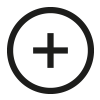
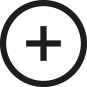
Added bottom menu for each job.

diff --git a/maisa-bolt/theme/maisa-template/job_style.css b/maisa-bolt/theme/maisa-template/job_style.css
@@ -1,5 +1,6 @@
 .simplewall{
-    margin: 10% auto;
+    margin: 150px auto;
+    margin-bottom: 60px;
     width: 85%;
     padding: 0px;
 }
@@ -15,7 +16,7 @@
 }
 
 .job-description{
-    width: 40%;
+    width: 32%;
     margin-left: 1%;
     height: auto;
     display: inline-block;
@@ -25,7 +26,7 @@
 }
 
 .job-line{
-    width: 56%;
+    width: 66%;
     display: inline-block;
     border-style: none solid none none;
     /*border-width: 6px;
@@ -37,4 +38,54 @@
 
 .job-title{
     margin-bottom: 2%;
+}
+
+.job-bottom-menu{
+    width: 85%;
+    padding: 0px;
+    z-index: 10;
+    margin-left: auto;
+    margin-right: auto;
+    padding-top: 30px;
+    
+    text-align:center;
+    
+    border-style: solid none none none;
+    border-width: 7px;
+    border-color: #00ffd8;
+    margin-top: -7px;
+}
+
+.jbmenu-item{
+    width: 25px;
+    height: 46px;
+    background-position: center;
+    background-size: cover;
+    display: inline-block;
+    margin: 0px;
+    
+    cursor: pointer;
+}
+
+.jbmenu-center{
+    width: 46px;
+    height: 46px;
+    background-position: center;
+    background-size: cover;
+    display: inline-block;
+    margin: 0px;
+    
+    cursor: pointer;
+    
+    background-image: url("imgs/trampos/mais.png");
+}
+
+.jbmenu-next{
+    background-image: url("imgs/trampos/proximo.png");
+    float:right;
+}
+
+.jbmenu-prev{
+    background-image: url("imgs/trampos/anterior.png");
+    float:left;
 }

diff --git a/maisa-bolt/theme/maisa-template/main.js b/maisa-bolt/theme/maisa-template/main.js
@@ -43,7 +43,7 @@ function calcCellH() {
             w_bestCellH = 20; 
         }
     }
-    console.log("screen: "+w_width+" "+w_height+" using cell h: "+w_bestCellH);
+    //console.log("screen: "+w_width+" "+w_height+" using cell h: "+w_bestCellH);
 }
 
 function buildWall(){
@@ -79,6 +79,7 @@ function buildWall(){
 function makeJobsClickable(){
     $( ".trab" ).click(
         function(){
+            sessionStorage.lastPlate = sessionStorage.currentPlate;
             sessionStorage.currentPlate = 'trabalho';
             sessionStorage.trabalho = $(this).data("ajax-link");
             fetchState();
@@ -90,6 +91,7 @@ function makeJobsClickable(){
 function beginState(){
     if(sessionStorage.currentPlate == undefined){
         sessionStorage.currentPlate = 'all';
+        sessionStorage.lastPlate = 'all';
     }
 }
 
@@ -130,9 +132,8 @@ function fetchState(){
         });
     }
     
-        if(sessionStorage.currentPlate == 'trabalho'){
-        $.get(
-            sessionStorage.trabalho,
+    if(sessionStorage.currentPlate == 'trabalho'){
+        $.get(sessionStorage.trabalho,
             function( data ) {
                 $( "#insert" ).html( data );
                 setTimeout(function(){

diff --git a/maisa-bolt/theme/maisa-template/jbmenu.js b/maisa-bolt/theme/maisa-template/jbmenu.js
@@ -1,0 +1,17 @@
+
+function jbmenuCenter(){
+    sessionStorage.currentPlate = sessionStorage.lastPlate;
+    fetchState();
+}
+
+function happy(text){
+    console.log("Hi, "+text+"!");
+}
+
+function go(link){
+    if(link.length > 0){
+        sessionStorage.currentPlate = "trabalho";
+        sessionStorage.trabalho = link;
+        fetchState();
+    }
+}
